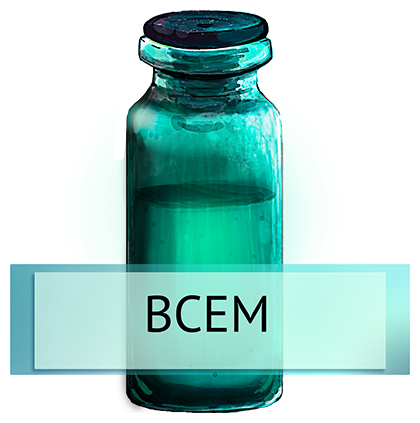
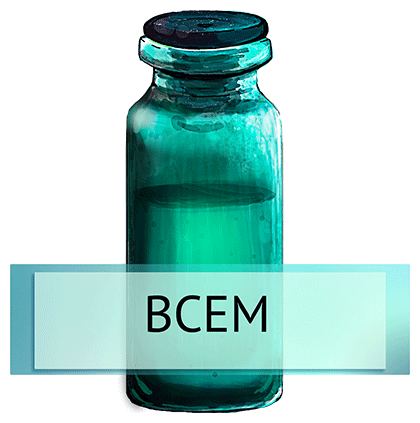
Optimise images

Changed region(s): [[0.65, 0.3995, 0.7119, 0.6147], [0.2786, 0.3688, 0.3095, 0.6147]]

diff --git a/src/modules/Partners.js b/src/modules/Partners.js
@@ -1,7 +1,7 @@
 import React, { Component } from "react";
 import "../css/Partners.css";
 
-import nlv from "../images/logo-nlv.jpg";
+import nlv from "../images/logo-nlv.png";
 
 class Partners extends Component {
   state = { visibleName: null };
